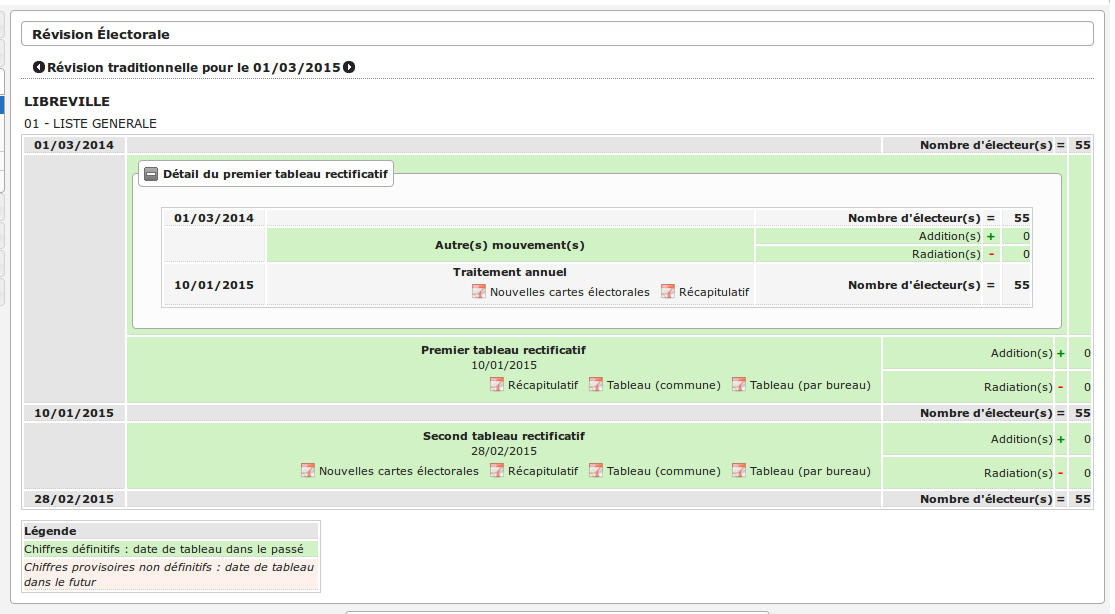
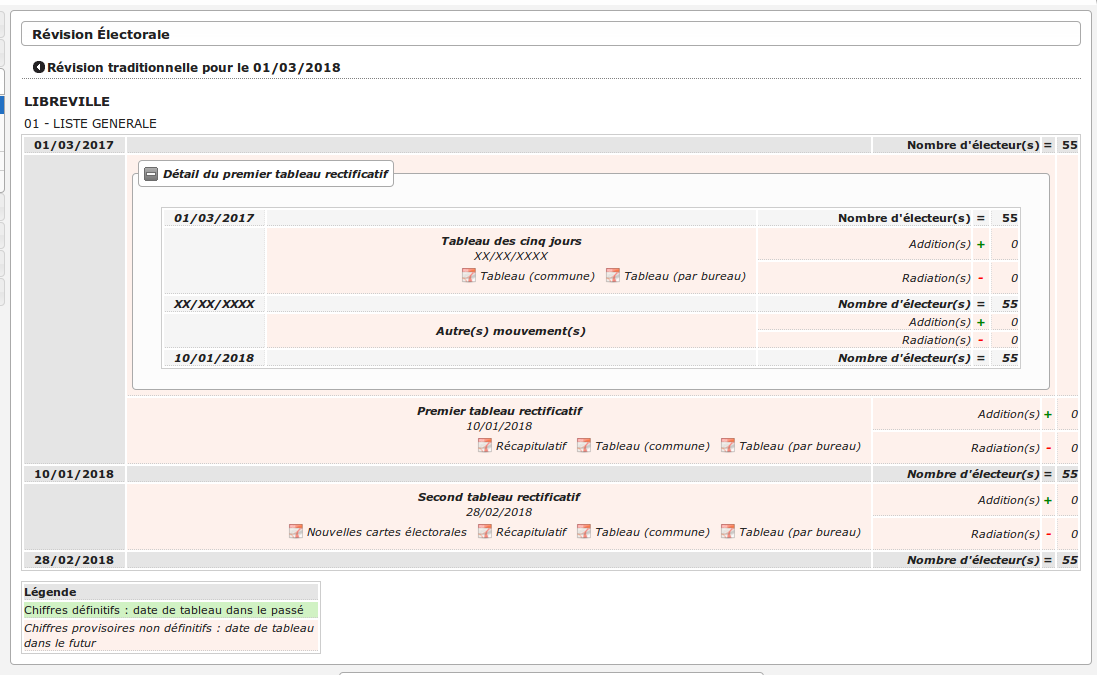
Met à jour les captures d'écran en version 5 (avant_de_commencer) et merge les rubriques 'préambule' et 'avant de commencer'

diff --git a/source/manuel_utilisateur/preambule/index.rst b/source/manuel_utilisateur/preambule/index.rst
@@ -291,3 +291,120 @@ Widgets
 =======
 
 
+- Widget 'Avertissement'
+- Widget 'Raccourcis'
+- Widget 'Liste de travail'
+- Widget 'Collectivité de travail'
+- Widget 'Recherche dans la liste électorale'
+- Widget 'Date de tableau'
+
+
+**************************************
+Les droits et profils des utilisateurs
+**************************************
+  
+Chaque utilisateur est associé à un profil. Le profil est le niveau de droits
+de l'utilisateur, dans la configuration par défaut d'openElec, il existe cinq
+profils :
+
+#. Consultation,
+
+#. Utilisateur limité,
+
+#. Utilisateur,
+
+#. Super utilisateur,
+
+#. Administrateur.
+
+Chaque page de l'application est associée à un profil. Pour chaque accès à une
+page, l'application vérifie si l'utilisateur a un profil supérieur ou égal au
+profil de la page consultée, si c'est le cas l'utilisateur à donc le droit
+d'accéder aux informations.
+
+******************
+L'année électorale
+******************
+
+.. figure:: annee_electorale.png
+
+    Année électorale
+
+
+*****************
+La liste en cours
+*****************
+
+=========================
+A quoi sert cette liste ?
+=========================
+
+Il existe dans le système électoral trois listes : la liste générale, la liste
+européenne, la liste municipale européenne. Les citoyens de l'Union européenne
+qui souhaitent s'inscrire sur les listes doivent le faire à la mairie de leur
+domicile sur une liste électorale complémentaire. Il existe deux listes
+électorales complémentaires distinctes, l'une valable pour les élections
+municipales, l'autre valable pour les élections européennes.
+
+openElec travaille sur une seule liste à la fois en ce qui concerne les
+inscriptions, radiations, modifications, traitements, éditions, ... Il faut
+donc selon le besoin savoir sur quelle liste on travaille, et comment on
+change de liste.
+
+===========================
+Consulter la liste en cours
+===========================
+
+Cette information est en permanence affichée à l'écran, sur la droite, en haut
+de la page à côté du login. Cela permet de savoir en un coup d'oeil sur quelle
+liste on est en train de travailler.
+
+.. figure:: liste_en_cours.png
+
+    Liste en cours
+
+
+==========================
+Modifier la liste en cours
+==========================
+
+Pour modifier la liste, il suffit de cliquer sur la liste. Une liste de choix
+nous permet de sélectionner la liste sur laquelle on veut travailler. 
+
+.. _la_date_de_tableau:
+
+******************
+La date de tableau
+******************
+
+========================
+A quoi sert cette date ?
+========================
+
+La date de tableau est la date à laquelle sera effectuée le prochain
+traitement. Elle permet lors de la saisie de mouvements de lier ce mouvement
+à un traitement. Il ne peut y avoir qu'une seule date de tableau à la fois soit :
+
+* le tableau du 10 janvier qui concerne l'ensemble des mouvements (inscriptions, modifications, radiations),
+
+* le tableau du 28 février qui concerne (généralement) les mouvements de radiations.
+
+=========================
+Consulter la date tableau
+=========================
+
+Pour consulter la date tableau, il suffit d'accéder au tableau de bord de l'application. La date de tableau y est affichée.
+
+.. figure:: consultation_de_la_date_de_tableau.png
+
+    Consultation de la date de tableau
+
+========================
+Modifier la date tableau
+========================
+
+Pour modifier la date de tableau en cours, il suffit de cliquer sur la date de tableau affichée sur le tableau de bord, de la modifier et ensuite valider la modification.
+
+.. figure:: modifier_la_date_de_tableau.png
+
+    Modifier la date de tableau

diff --git a/source/manuel_utilisateur/parametrage/index.rst b/source/manuel_utilisateur/parametrage/index.rst
@@ -4,6 +4,10 @@
 Paramétrage
 ###########
 
+.. figure:: menu-rubrik-parametrage.png
+
+   Menu - Rubrique 'Paramétrage'
+
 Tous les paramétrages se font par l’intermédiaire de formulaires. Dans
 l’optique openMairie, l’application présente un tableau permettant de choisir
 l’enregistrement à modifier ou à supprimer, ou de créer un nouvel

diff --git a/source/manuel_utilisateur/decoupage/index.rst b/source/manuel_utilisateur/decoupage/index.rst
@@ -4,6 +4,10 @@
 Découpage
 #########
 
+.. figure:: menu-rubrik-decoupage.png
+
+   Menu - Rubrique 'Découpage'
+
 Le découpage inclut plusieurs notions: le canton, le bureau, la voie.
 Chaque bureau appartient à un canton, et chaque voie appartient à un bureau
 d'un numéro de cette voie à un autre numéro. Cela permet lorsque toutes les

diff --git a/source/manuel_utilisateur/index.rst b/source/manuel_utilisateur/index.rst
@@ -8,7 +8,6 @@ Manuel de l'utilisateur
     :numbered:
 
     preambule/index.rst
-    avant_de_commencer/index.rst
     utilisateur_saisies/index.rst
     consultation/index.rst
     editions/index.rst

diff --git a/source/manuel_utilisateur/traitements/index.rst b/source/manuel_utilisateur/traitements/index.rst
@@ -4,6 +4,10 @@
 Traitements
 ###########
 
+.. figure:: menu-rubrik-traitement.png
+
+   Menu - Rubrique 'Traitement'
+
 .. toctree::
 
    module_commission.rst

diff --git a/source/manuel_utilisateur/utilisateur_saisies/index.rst b/source/manuel_utilisateur/utilisateur_saisies/index.rst
@@ -4,6 +4,11 @@
 Saisies
 #######
 
+
+.. figure:: menu-rubrik-saisie.png
+
+   Menu - Rubrique 'Saisie Électeur'
+
 .. toctree::
 
    inscription.rst
